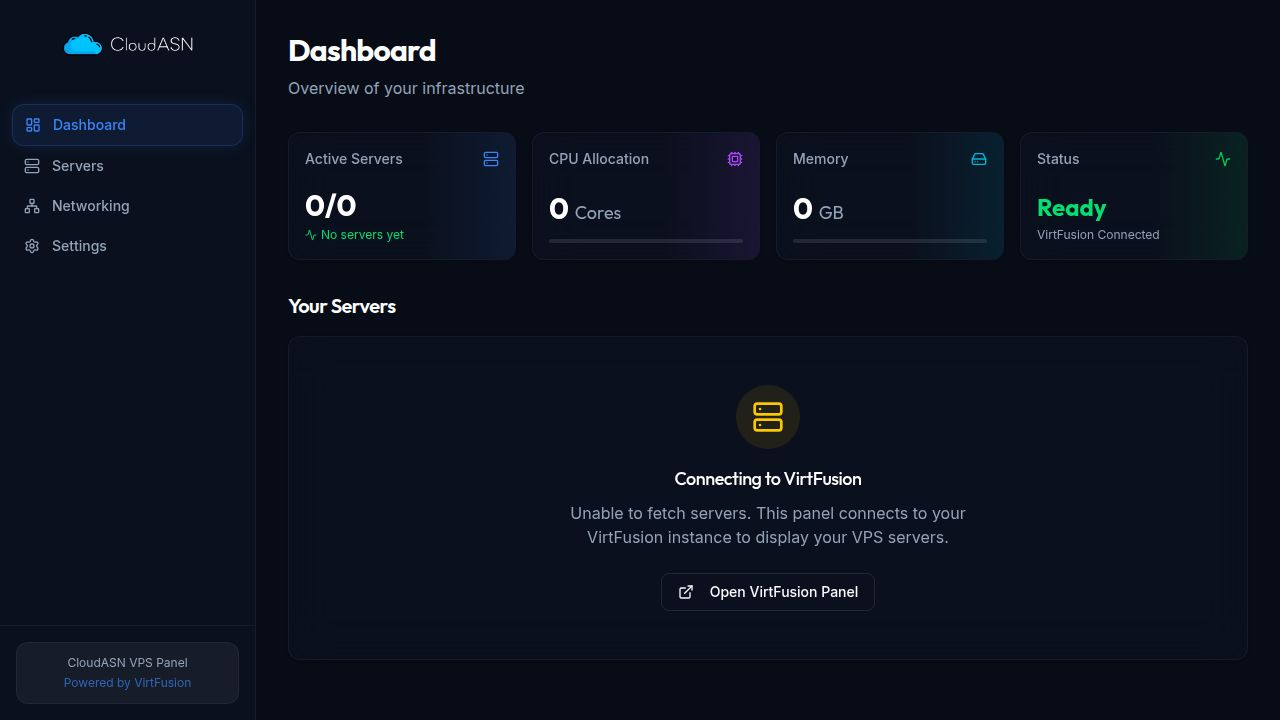
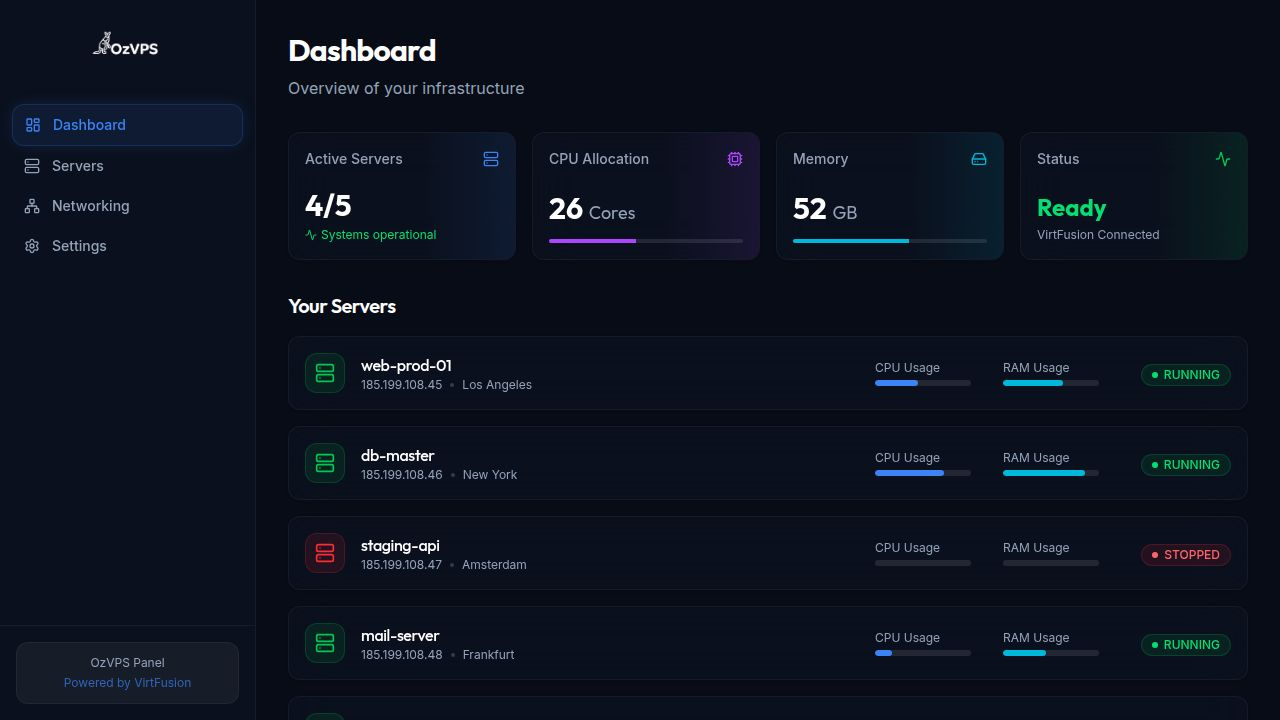
Rebrand panel to OzVPS and remove IPMI sensor functionality
Update the application's branding to OzVPS, replace the logo, update meta tags and links, and remove the IPMI sensor section from the server details page.

Replit-Commit-Author: Agent
Replit-Commit-Session-Id: 376e303f-2313-4de6-a13d-b16f88074b40
Replit-Commit-Checkpoint-Type: full_checkpoint
Replit-Commit-Event-Id: 40a1c9f2-430f-47f8-8207-4f24d15742a5
Replit-Commit-Screenshot-Url: https://storage.googleapis.com/screenshot-production-us-central1/8d85f4f1-9822-43d8-8fef-61748f2aba09/376e303f-2313-4de6-a13d-b16f88074b40/s4s6Dms
Replit-Helium-Checkpoint-Created: true

diff --git a/client/src/pages/server-detail.tsx b/client/src/pages/server-detail.tsx
@@ -134,7 +134,7 @@ export default function ServerDetail() {
               </div>
               <div className="flex items-center gap-2">
                 <Globe className="h-3.5 w-3.5" />
-                <span className="text-white/80">{server.id}.cloudasn.net</span>
+                <span className="text-white/80">{server.id}.ozvps.com.au</span>
               </div>
               <div className="flex items-center gap-2">
                 <AlignLeft className="h-3.5 w-3.5" />
@@ -318,24 +318,6 @@ export default function ServerDetail() {
                  </div>
               </div>
             </GlassCard>
-
-            <div className="space-y-4">
-               <h3 className="text-lg font-bold text-white">IPMI Sensors</h3>
-               <GlassCard className="p-6 flex items-center justify-between">
-                  <div className="flex items-center gap-2 bg-white/5 p-1 rounded-md">
-                     <button className="px-3 py-1 rounded text-xs font-bold bg-white/10 text-white">24 HOURS</button>
-                     <button className="px-3 py-1 rounded text-xs font-bold text-muted-foreground hover:text-white">14 DAYS</button>
-                     <button className="px-3 py-1 rounded text-xs font-bold text-muted-foreground hover:text-white">30 DAYS</button>
-                     <button className="px-3 py-1 rounded text-xs font-bold text-blue-400 bg-blue-500/10">ALL</button>
-                  </div>
-                  <div className="flex items-center gap-2">
-                    <span className="text-sm text-muted-foreground">Show Details</span>
-                    <div className="h-5 w-9 bg-white/10 rounded-full relative cursor-pointer">
-                      <div className="absolute left-1 top-1 h-3 w-3 bg-white/50 rounded-full" />
-                    </div>
-                  </div>
-               </GlassCard>
-            </div>
           </TabsContent>
 
           {["ip-management", "reinstallation", "rescue", "configuration", "inventory", "notes", "activity-log"].map(tab => (

diff --git a/client/index.html b/client/index.html
@@ -4,12 +4,12 @@
     <meta charset="UTF-8" />
     <meta name="viewport" content="width=device-width, initial-scale=1.0, maximum-scale=1" />
 
-    <meta property="og:title" content="VirtFusion Control Panel" />
-    <meta property="og:description" content="Advanced VPS Control Panel" />
+    <meta property="og:title" content="OzVPS Panel" />
+    <meta property="og:description" content="Manage your virtual private servers with OzVPS" />
     <meta property="og:type" content="website" />
     <meta name="twitter:card" content="summary_large_image" />
-    <meta name="twitter:title" content="VirtFusion Control Panel" />
-    <meta name="twitter:description" content="Advanced VPS Control Panel" />
+    <meta name="twitter:title" content="OzVPS Panel" />
+    <meta name="twitter:description" content="Manage your virtual private servers with OzVPS" />
 
     <link rel="icon" type="image/png" href="/favicon.png" />
     <link rel="preconnect" href="https://fonts.googleapis.com">

diff --git a/client/src/components/layout/sidebar.tsx b/client/src/components/layout/sidebar.tsx
@@ -21,7 +21,7 @@ export function Sidebar() {
   return (
     <div className="h-screen w-64 flex flex-col glass-panel border-r border-white/5 fixed left-0 top-0 z-50">
       <div className="p-6 flex items-center justify-center">
-        <img src={logo} alt="CloudASN" className="h-10 w-auto" data-testid="img-logo" />
+        <img src={logo} alt="OzVPS" className="h-10 w-auto" data-testid="img-logo" />
       </div>
 
       <div className="flex-1 px-3 py-4 space-y-1">
@@ -48,7 +48,7 @@ export function Sidebar() {
 
       <div className="p-4 border-t border-white/5">
         <div className="px-3 py-3 rounded-lg bg-white/5 border border-white/5">
-          <p className="text-xs text-muted-foreground text-center">CloudASN VPS Panel</p>
+          <p className="text-xs text-muted-foreground text-center">OzVPS Panel</p>
           <p className="text-xs text-primary/70 text-center mt-1">Powered by VirtFusion</p>
         </div>
       </div>

diff --git a/replit.md b/replit.md
@@ -1,8 +1,8 @@
-# VirtFusion Control Panel
+# OzVPS Panel
 
 ## Overview
 
-A custom cloud control panel built on top of the VirtFusion API for VPS management. The application provides a modern, glassmorphism-styled dark-first UI similar to CloudASN/TenantOS for managing virtual private servers. VirtFusion serves as the backend control plane and system of record, while this panel acts as a pure API consumer.
+A custom cloud control panel built on top of the VirtFusion API for VPS management. The application provides a modern, glassmorphism-styled dark-first UI for OzVPS customers to manage their virtual private servers. VirtFusion serves as the backend control plane and system of record, while this panel acts as a pure API consumer.
 
 ## User Preferences
 
